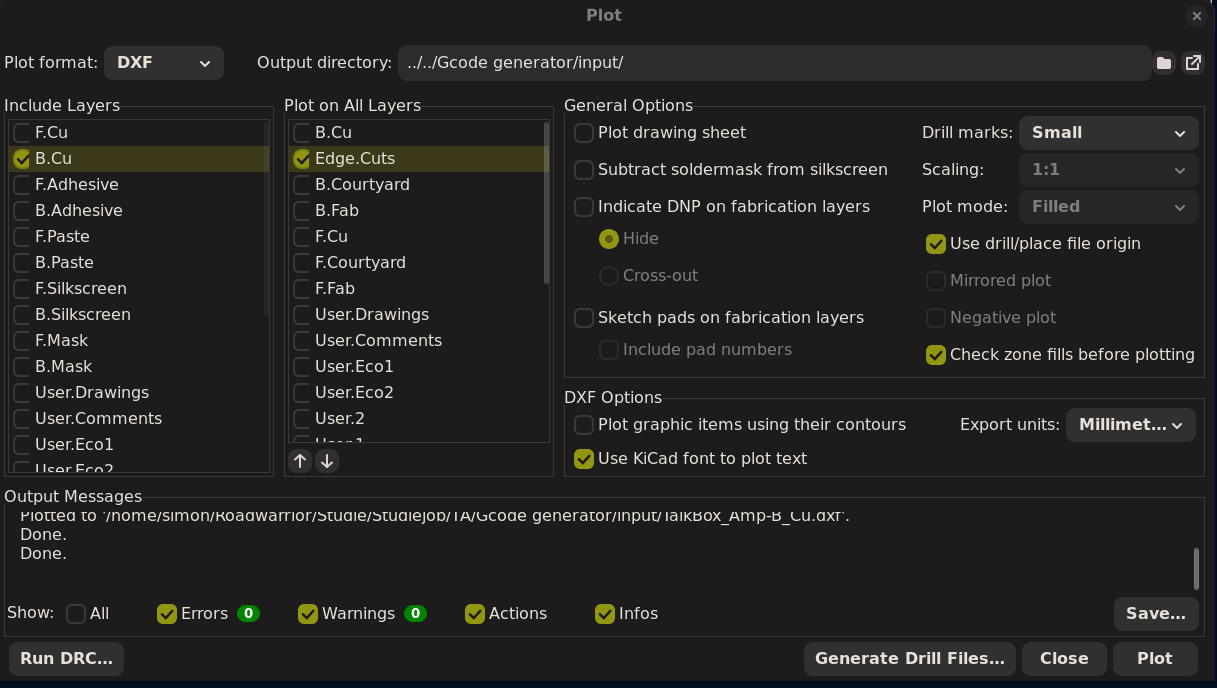
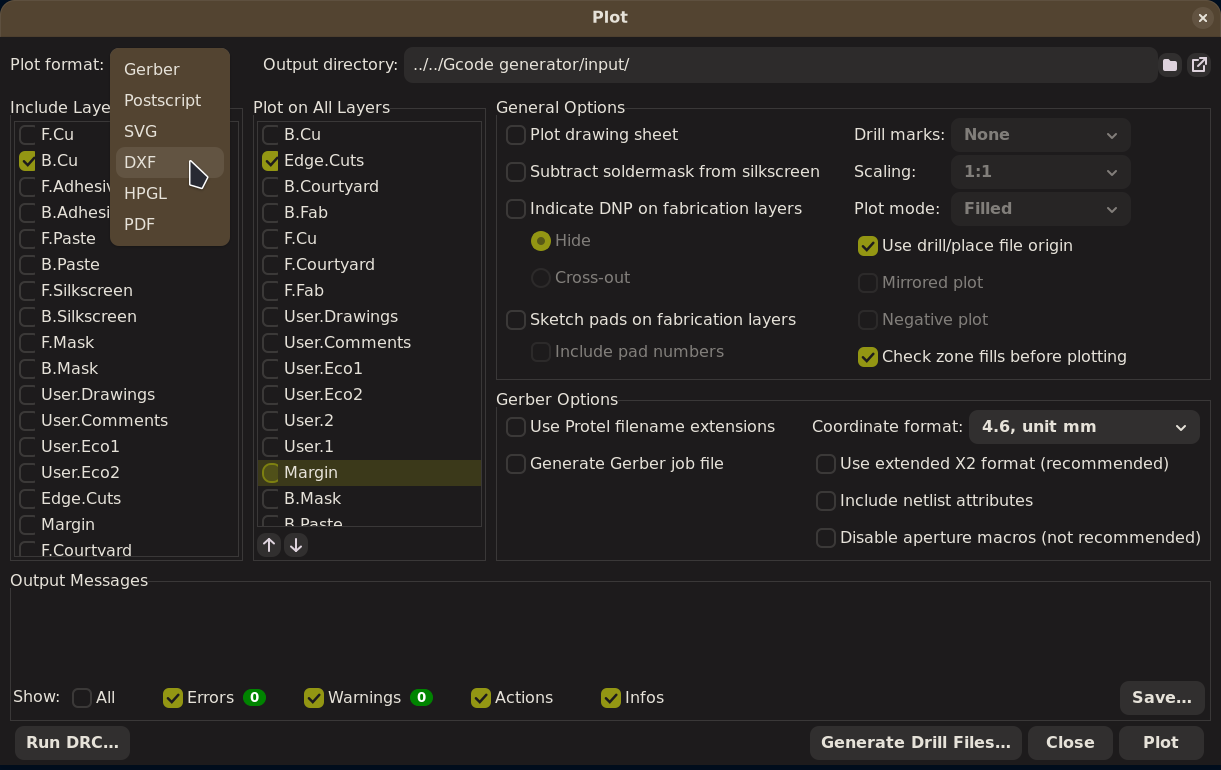
Finished the Export from kicad to laser part of the guide

Changed region(s): [[0.0, 0.0, 1.0, 1.0], [0.1249, 0.8547, 0.562, 0.9462], [0.0, 0.8852, 0.0937, 0.9157]]

diff --git a/README.md b/README.md
@@ -7,12 +7,24 @@ Guide for producing PCB's from KiCad with DTU Ballerup equipment.
 - A **single-sided** ¹ copper PCB FR4 board.
 - Have participated in the safety course held by the professor or TA's.
 
+## Contents
+
+- [What to keep in mind](#what-to-keep-in-mind)
+- [Making PCBs with the Fiber laser](#making-pcbs-with-the-fiber-laser)
+- [Making PCBs with the Roland CNC milling machine](#making-pcbs-with-the-roland-cnc-milling-machine)
+
+
 ## What to keep in mind
 PCB's made in the course [62733](https://kurser.dtu.dk/course/62733) should preferably be made as **one-sided** PCB[^1]. Therefore, make sure to do all of your traces on the back side layer (B.Cu) in the KiCad PCB Editor:
 ![Design note 1](images-for-guides/kicad_design_note1.png "Design note 1")
 A quick check to see if you have selected the correct layer is, if the traces drawn becomes blue.
 
-It can also be a good idea to increase the size of traces for easier result consistency[^2]. 
+It can also be a good idea to increase the size of traces for easier result consistency[^2].
+> [!IMPORTANT]
+> This step should be done **before** designing your PCB.
+>
+> It is **not possible to do afterwards.**
+
 To do so:
 1. go into *Board Setup*.
 
@@ -22,11 +34,36 @@ To do so:
 
 ![Design note 3](images-for-guides/kicad_design_note3.png "Design note 3")
 
-3. And change *Clearance* and *Track Width* to **0,8 mm**.
+3. And change both *Clearance* and *Track Width* to **0,8 mm**.
 
 ---
 
 [^1]: Currently we are limited to one-sided PCB's until further testing and workflows are prepared. The students are free to try their hand ad two-sided PCB's, but should then consult with the people responsible for the machines, and it will be at their own risk and time.
 
-[^2]: This step is mostly beneficial for PCB-milling and Fiber-etching.
+[^2]: This step is only necessary for PCB-milling and Fiber-etching.
 
+## Making PCBs with the Fiber laser
+### Exporting from Kicad:
+When choosing to make your PCB with the Fiber laser, you need to do the following steps in Kicad:
+#### 1. Open the *Plot* window by going into:
+`File - Fabrication Outputs - Gerbers (.gbr)`
+![Kicad export step 1](images-for-guides/kicad_export_step1.png "Kicad export step 1")
+
+#### 2. Change *Plot format* to **DXF**, and select where you wish to save your exported file:
+![Kicad export step 2](images-for-guides/kicad_export_step2.png "Kicad export step 2")
+Be sure to choose a folder you can find, since you will need this file for the actual making of the PCB.
+![Kicad export step 3](images-for-guides/kicad_export_step3.png "Kicad export step 3")
+
+#### 3. In the *Plot* window, make sure that the following settings are selected:
+![Kicad export step 4](images-for-guides/kicad_export_step4.png "Kicad export step 4")
+Where the most important settings are as follows:
+   - *Include Layers*: **B.Cu**.
+   - *Plot on All Layers*: **Edge.Cuts**
+   - *Drill marks*: **Small**
+   - *Plot graphic items using their contours*: **Unselected**
+
+
+---
+
+## Making PCBs with the Roland CNC milling machine
+Work in progress
